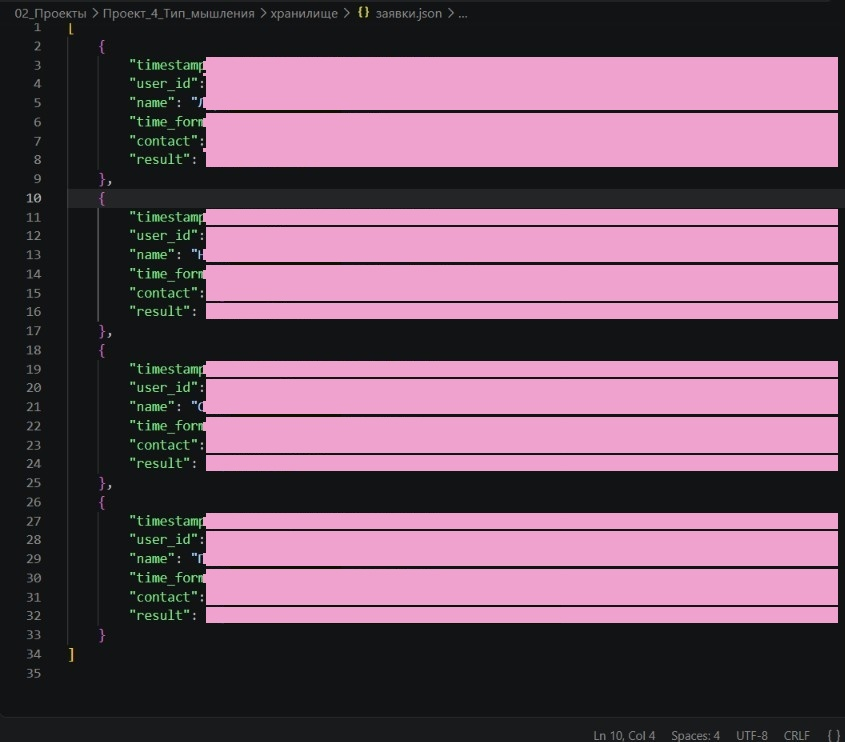
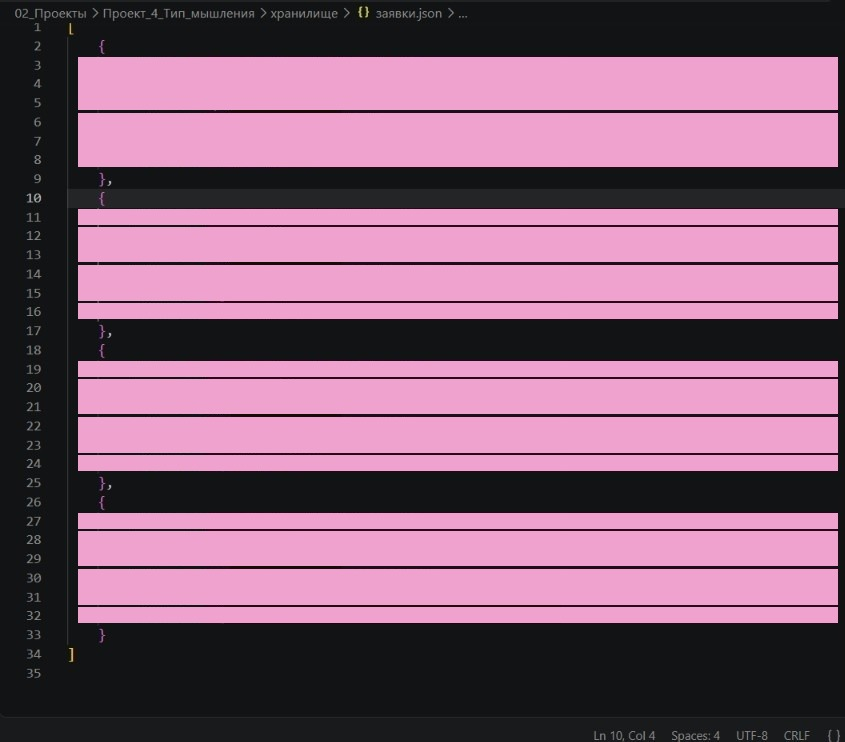
Mask storage screenshot fully, README wording

diff --git a/README.md b/README.md
@@ -112,7 +112,8 @@ python -m unittest discover -s тесты -v
 
 ![Код бота: результат теста и профессии](Медиа/code-2.jpg)
 
-и хранилище заявок: ключи видны, персональные данные заявок закрыты.
+и хранилище заявок: видно, что заявки лежат списком, а значения полей
+закрыты.
 
 ![Хранилище заявок: значения заявок скрыты](Медиа/code-storage-masked.jpg)
 
